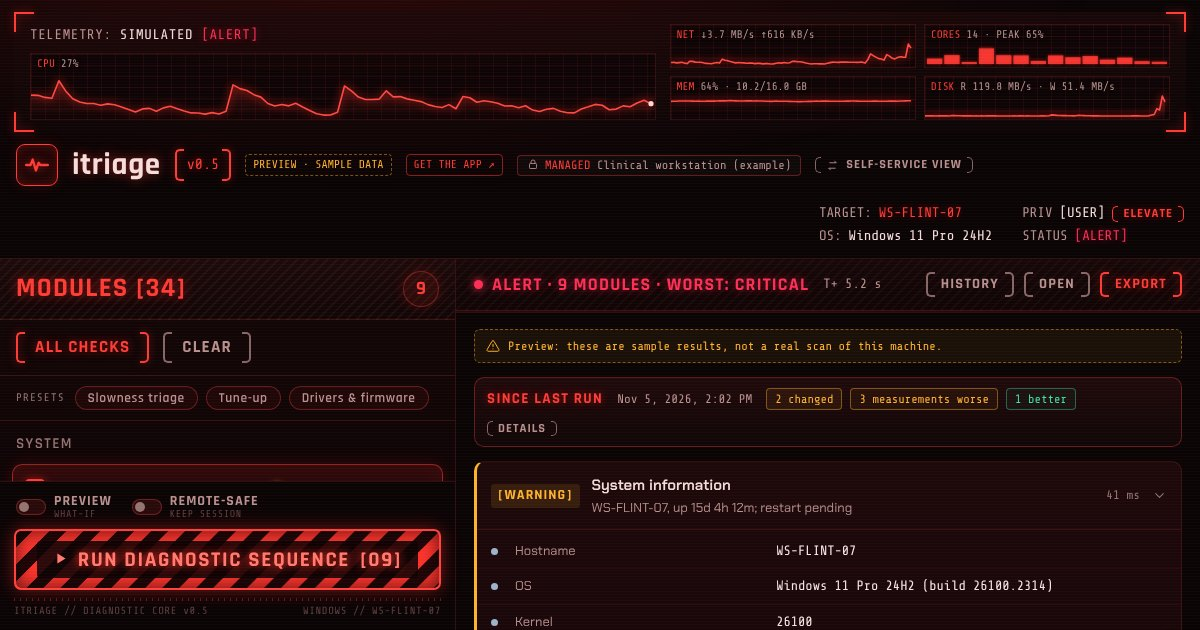
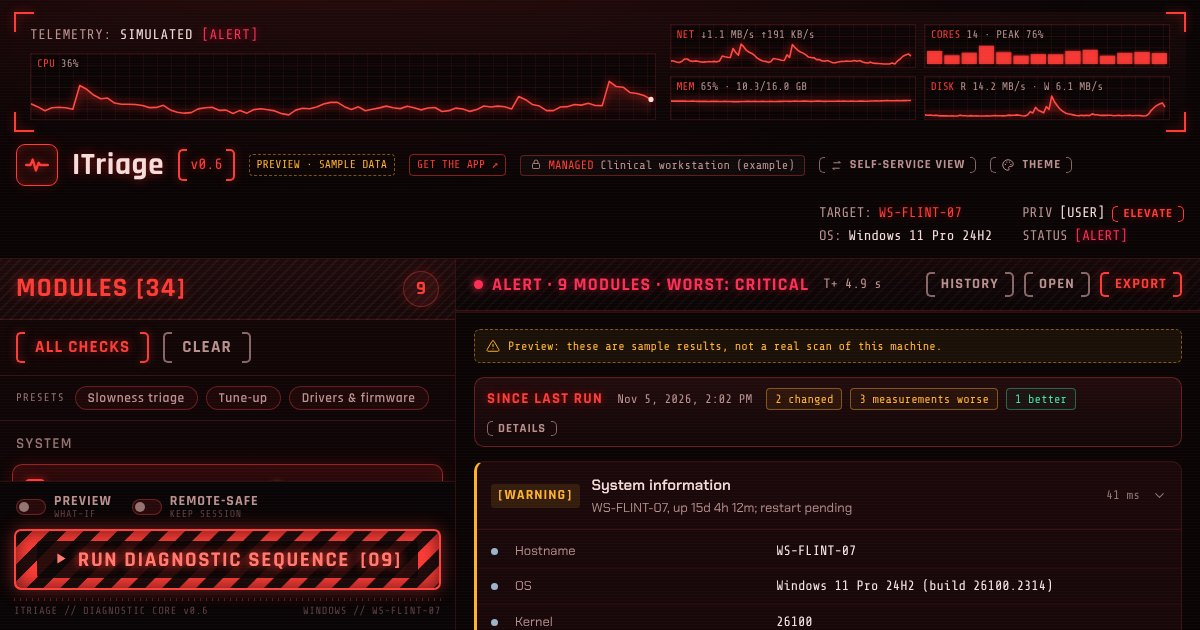
Spell the product name ITriage wherever people read it
- The app header, window title, page title, self-service footer, theme
  picker previews, reports (ticket text, transcript, Markdown, rich text),
  CLI help and run header, audit log messages and the engine's messages
  now say ITriage. So do the README, the release titles and the preview
  site's title; the link-card image is regenerated.
- The command, program file, folders, Event Log source, installer and
  package names stay lowercase `itriage`. Tauri builds the Linux package
  name by kebab-casing productName ("ITriage" would become a new
  "i-triage" package that can't upgrade "itriage") and derives the MSI
  upgrade code from it, so renaming it would break upgrades. The README
  says which is which.

Claude-Session: https://claude.ai/code/session_015zAL7gnsjDVgMzLAC5KVMW

diff --git a/src/main.js b/src/main.js
@@ -1,4 +1,4 @@
-/* itriage frontend logic — v0.6.
+/* ITriage frontend logic — v0.6.
  *
  * Two views over the same engine:
  *   • Technician: the HUD console (red by default, eight more themes in the
@@ -124,12 +124,12 @@
     mod("fix.tcp", "TCP autotuning & NIC power", "repair", "Sets TCP receive autotuning back to normal and turns off the adapters' sleep settings (DeviceSleepOnDisconnect, SelectiveSuspend).",
       CHANGE("Changes TCP and adapter power settings. The adapter settings apply the next time each adapter restarts.", Object.assign({}, DROP, WIN))),
     mod("fix.netstack", "Reset network stack", "repair", "Resets the Winsock catalog and the TCP/IP stack (IPv4 and IPv6). Applies after a restart. Refused when any address is static.",
-      CHANGE("Resets Winsock and TCP/IP to defaults. Static IP settings would be lost (itriage refuses if it finds any), and a restart is needed.", Object.assign({}, DROP, WIN))),
+      CHANGE("Resets Winsock and TCP/IP to defaults. Static IP settings would be lost (ITriage refuses if it finds any), and a restart is needed.", Object.assign({}, DROP, WIN))),
     mod("fix.adapters", "Restart adapters & renew DHCP", "repair", "Restarts every physical network adapter that's up, waits for each to come back, then renews DHCP (ipconfig /release, /renew).",
       CHANGE("Every network connection drops for up to a minute. A remote session will disconnect and should reconnect on its own.", DROP)),
     mod("fix.temp", "Clear temp files", "fixes", "Deletes temp files older than a day from every user profile and C:\\Windows\\Temp (only your own without admin). Skips files in use.",
       CHANGE("Permanently deletes temp files older than a day. Files in use are skipped.")),
-    mod("fix.recycle", "Empty Recycle Bin", "fixes", "Permanently deletes what's in the Recycle Bin (the Trash on Linux) for the account itriage runs as.",
+    mod("fix.recycle", "Empty Recycle Bin", "fixes", "Permanently deletes what's in the Recycle Bin (the Trash on Linux) for the account ITriage runs as.",
       CHANGE("Permanently deletes files the user may still expect to recover. Ask them first.")),
     mod("fix.repair", "Clean up & check system files", "fixes", "DISM component-store cleanup, then System File Checker (sfc /scannow). Takes 15–45 minutes; use when corruption is suspected or space is critical.",
       CHANGE("Runs DISM and SFC, which take 15–45 minutes and keep the disk busy. Don't restart until they finish.", Object.assign({}, ADMIN, WIN))),
@@ -239,7 +239,7 @@
 
   /* --------------------- sample data for the preview ---------------- */
   const ADMIN_REQUIRED =
-    'Administrator rights required. Use "Relaunch as admin" in the header (or right-click itriage → Run as administrator).';
+    'Administrator rights required. Use "Relaunch as admin" in the header (or right-click ITriage → Run as administrator).';
   const REMOTE_SAFE_REASON =
     "Remote-safe mode is on: this could drop the remote session or restart the PC. Switch remote-safe off to run it.";
   const MOCK_HOST = {
@@ -678,9 +678,9 @@
     <header class="brandbar" id="brandbar">
       <div class="brand">
         <span class="logo">${I.logo}</span>
-        <span class="name">itriage</span>
+        <span class="name">ITriage</span>
         <span class="brk">${VERSION}</span>
-        ${isTauri ? "" : '<span class="tag preview">PREVIEW · SAMPLE DATA</span><a class="tag getapp" href="https://github.com/jp101216/ITriage/releases/latest" target="_blank" rel="noopener" title="Download itriage for Windows or Linux">GET THE APP ↗</a>'}
+        ${isTauri ? "" : '<span class="tag preview">PREVIEW · SAMPLE DATA</span><a class="tag getapp" href="https://github.com/jp101216/ITriage/releases/latest" target="_blank" rel="noopener" title="Download ITriage for Windows or Linux">GET THE APP ↗</a>'}
         <button class="tag profile" id="profileTag" type="button" title="Site profile"><span id="profileIcon">${I.shield}</span><span id="profileName">PROFILE —</span></button>
         <span class="tag mode-tag pv" id="tagPreview" hidden title="Preview (what-if) is on: nothing will be changed">${I.eye}PREVIEW</span>
         <span class="tag mode-tag safe" id="tagSafe" hidden title="Remote-safe is on: nothing that could drop the session or restart the PC can run">${I.shield}REMOTE-SAFE</span>
@@ -733,7 +733,7 @@
                 <button type="button" role="menuitem" data-fmt="transcript">${I.copy}<span>Full transcript<small>Every module's log too · for an escalation</small></span></button>
                 <button type="button" role="menuitem" data-fmt="rich">${I.export}<span>Rich text<small>Formatted table · TeamDynamix, Outlook</small></span></button>
                 <button type="button" role="menuitem" data-fmt="md">${I.book}<span>Markdown<small>Teams, GitHub, wikis</small></span></button>
-                <button type="button" role="menuitem" data-fmt="json">${I.download}<span>JSON report<small>Re-open in itriage, or attach to the ticket</small></span></button>
+                <button type="button" role="menuitem" data-fmt="json">${I.download}<span>JSON report<small>Re-open in ITriage, or attach to the ticket</small></span></button>
               </div>
             </div>
           </div>
@@ -1197,7 +1197,7 @@
           <dt>Opens in</dt><dd>${pol.start_in === "self-service" ? "self-service view" : "technician view"}${pol.technician_view === false ? " · technician view turned off" : ""}</dd>
           ${profileSkin() ? `<dt>Theme</dt><dd>${esc(profileSkin().name)} by default</dd>` : ""}
         </dl>
-        <p>A machine-wide profile at <code>${esc(where)}</code> wins over a personal one, and a broken one locks itriage to read-only.</p>`,
+        <p>A machine-wide profile at <code>${esc(where)}</code> wins over a personal one, and a broken one locks ITriage to read-only.</p>`,
       actions: [{ label: "Close", hot: true, value: true }],
     });
   }
@@ -1711,7 +1711,7 @@
     let notice = "";
     if (action.requires_admin && host && !host.elevated) {
       notice = host.platform === "windows"
-        ? `<div class="warnbox">${I.shield}<div><p><b>Needs administrator rights.</b> It will stop with an error until itriage runs elevated.</p>
+        ? `<div class="warnbox">${I.shield}<div><p><b>Needs administrator rights.</b> It will stop with an error until ITriage runs elevated.</p>
              ${host.can_relaunch_elevated ? '<button class="bk-btn xs" data-x="relaunch" type="button">Relaunch as admin</button>' : ""}</div></div>`
         : `<div class="notebox">${I.shield}<p>Needs root: you'll be asked for your password.</p></div>`;
     }
@@ -2064,7 +2064,7 @@
     const file = fileInput.files && fileInput.files[0];
     fileInput.value = "";
     if (!file) return;
-    if (file.size > 20 * 1024 * 1024) { toast("That file is too big to be an itriage report."); return; }
+    if (file.size > 20 * 1024 * 1024) { toast("That file is too big to be an ITriage report."); return; }
     try {
       const text = await file.text();
       const r = await api.importReport(text);
@@ -2161,7 +2161,7 @@
   }
 
   function plainText(report, diff, withLogs) {
-    const lines = [`itriage report — ${fmtUtc(report.generated)}`, hostLine(report)];
+    const lines = [`ITriage report — ${fmtUtc(report.generated)}`, hostLine(report)];
     if (report.cancelled) lines.push("Run was cancelled before every module finished.");
     if (report.results.some((r) => r.preview)) lines.push("PREVIEW: modules that change the machine only said what they would do.");
     if (report.results.some((r) => r.restart_required && !r.preview)) lines.push("A restart is needed to finish the changes.");
@@ -2208,7 +2208,7 @@
   function markdown(report, diff) {
     const cell = (s) => String(s).replace(/\|/g, "\\|").replace(/\s*\n\s*/g, " ");
     const tag = { ok: "OK", info: "INFO", warning: "WARN", critical: "CRIT" };
-    const out = [`## itriage report · ${report.host ? report.host.hostname : ""}`, "", `${fmtUtc(report.generated)} · ${hostLine(report)}`];
+    const out = [`## ITriage report · ${report.host ? report.host.hostname : ""}`, "", `${fmtUtc(report.generated)} · ${hostLine(report)}`];
     if (report.results.some((r) => r.preview)) out.push("", "> **Preview:** modules that change the machine only said what they would do.");
     if (diff) out.push("", `**${diffLine(diff)}**`);
     const key = keyFindings(report);
@@ -2260,7 +2260,7 @@
       });
     });
     return `<div style="font-family:Segoe UI,Arial,sans-serif;font-size:13px;color:#1f2328">
-      <p style="margin:0 0 6px"><b>itriage report</b> · ${esc(fmtUtc(report.generated))}<br>${esc(hostLine(report))}</p>
+      <p style="margin:0 0 6px"><b>ITriage report</b> · ${esc(fmtUtc(report.generated))}<br>${esc(hostLine(report))}</p>
       ${diff ? `<p style="margin:0 0 8px"><b>${esc(diffLine(diff))}</b></p>` : ""}
       ${keyHtml(report, color)}
       <table style="border-collapse:collapse;font-size:13px">${rows}</table></div>`;
@@ -2343,7 +2343,7 @@
         <p class="ss-hint">Takes about a minute. Nothing on your computer is changed.</p>
         <div class="ss-progress" id="ssProg" hidden><div class="bar"><i id="ssBar"></i></div><p id="ssStep">Starting…</p></div>
         <div class="ss-results" id="ssResults"></div>
-        <p class="ss-foot">itriage ${VERSION}${isTauri ? "" : " · preview with sample results"}</p>
+        <p class="ss-foot">ITriage ${VERSION}${isTauri ? "" : " · preview with sample results"}</p>
       </div>`;
     const tech = el("ssTech");
     if (tech) tech.onclick = () => setMode("tech");
@@ -2564,7 +2564,7 @@
     const card = (s) => `
       <button class="skin" type="button" data-id="${s.id}" aria-pressed="${s.id === chosen}">
         <span class="skin-thumb" data-skin="${s.id}" aria-hidden="true">
-          <span class="st-top"><span class="st-logo">${I.logo}</span><span class="st-name">itriage</span><span class="st-ver">${VERSION}</span></span>
+          <span class="st-top"><span class="st-logo">${I.logo}</span><span class="st-name">ITriage</span><span class="st-ver">${VERSION}</span></span>
           <span class="st-mod on"><span class="st-box"></span><span class="st-lines"><i></i><i></i></span></span>
           <span class="st-mod"><span class="st-box"></span><span class="st-lines"><i></i><i></i></span></span>
           <span class="st-run"><b>RUN</b></span>
@@ -2617,7 +2617,7 @@
       const names = needAdmin.map((m) => `<b>${esc(m.title)}</b>`).join(" and ");
       notice = host.platform === "windows"
         ? `<div class="warnbox">${I.shield}<div><p><b>Not running as administrator.</b> ${names}
-             will stop with an error until itriage runs elevated.</p>
+             will stop with an error until ITriage runs elevated.</p>
              ${host.can_relaunch_elevated ? '<button class="bk-btn xs" data-x="relaunch" type="button">Relaunch as admin</button>' : ""}
            </div></div>`
         : `<div class="notebox">${I.shield}<p>${esc(host.elevation_note)} Applies to ${names}.</p></div>`;
@@ -3014,8 +3014,8 @@
       },
       importReport: async (text) => {
         let r;
-        try { r = JSON.parse(text); } catch (e) { throw "Not an itriage report: " + e.message; }
-        if (!r || !Array.isArray(r.results) || !r.host || !r.generated) throw "Not an itriage report: missing host, generated or results.";
+        try { r = JSON.parse(text); } catch (e) { throw "Not an ITriage report: " + e.message; }
+        if (!r || !Array.isArray(r.results) || !r.host || !r.generated) throw "Not an ITriage report: missing host, generated or results.";
         return { report: r, diff: null, saved: null };
       },
       compareWithPrevious: async (report) =>

diff --git a/src/styles.css b/src/styles.css
@@ -1,5 +1,5 @@
 /* ------------------------------------------------------------------
-   itriage — HUD console (nine themes; red is the default)
+   ITriage — HUD console (nine themes; red is the default)
    Layout: live telemetry strip on top (corner-bracketed scopes), a brand
    bar with live host stats, then the two-pane console: module rail on the
    left, streaming report on the right. Stacks to one column on narrow

diff --git a/src/index.html b/src/index.html
@@ -3,7 +3,7 @@
   <head>
     <meta charset="UTF-8" />
     <meta name="viewport" content="width=device-width, initial-scale=1.0" />
-    <title>itriage</title>
+    <title>ITriage</title>
     <!-- Everything is local: the app's CSP allows no remote content. -->
     <link rel="stylesheet" href="fonts/fonts.css" />
     <link rel="stylesheet" href="styles.css" />

diff --git a/crates/itriage-core/src/audit.rs b/crates/itriage-core/src/audit.rs
@@ -59,7 +59,7 @@ pub fn run_finished(results: &[ModuleResult], cancelled: bool) {
         .unwrap_or(Severity::Ok);
     let ids: Vec<&str> = results.iter().map(|r| r.module_id.as_str()).collect();
     let message = format!(
-        "itriage run {}: {} module(s), worst result {:?}{}",
+        "ITriage run {}: {} module(s), worst result {:?}{}",
         if cancelled { "cancelled" } else { "finished" },
         results.len(),
         worst,
@@ -72,8 +72,8 @@ pub fn run_finished(results: &[ModuleResult], cancelled: bool) {
 pub fn module_ran(result: &ModuleResult) {
     let ok = result.error.is_none();
     let message = match &result.error {
-        None => format!("itriage module {} ran: {}", result.module_id, result.summary),
-        Some(e) => format!("itriage module {} failed: {e}", result.module_id),
+        None => format!("ITriage module {} ran: {}", result.module_id, result.summary),
+        Some(e) => format!("ITriage module {} failed: {e}", result.module_id),
     };
     record("module", event_id::MODULE, ok, &message, json!({ "module": result.module_id }));
 }
@@ -85,8 +85,8 @@ pub fn fix_ran(id: &str, target: Option<&str>, outcome: &Result<String, String>)
         None => id.to_string(),
     };
     let (ok, message) = match outcome {
-        Ok(m) => (true, format!("itriage fix {what} succeeded: {m}")),
-        Err(e) => (false, format!("itriage fix {what} failed: {e}")),
+        Ok(m) => (true, format!("ITriage fix {what} succeeded: {m}")),
+        Err(e) => (false, format!("ITriage fix {what} failed: {e}")),
     };
     let event = if ok { event_id::FIX_OK } else { event_id::FIX_FAILED };
     record("fix", event, ok, &message, json!({ "fix": id, "target": target }));

diff --git a/crates/itriage-core/src/update/oem.rs b/crates/itriage-core/src/update/oem.rs
@@ -49,7 +49,7 @@ impl OemTool {
             Some((_, severity, text)) => (*severity, (*text).to_string()),
             None => (
                 Severity::Warning,
-                "finished with an exit code this version of itriage doesn't recognise; check the tool's log".into(),
+                "finished with an exit code this version of ITriage doesn't recognise; check the tool's log".into(),
             ),
         }
     }
@@ -179,7 +179,7 @@ static ROUTES: [Route; 10] = [
         winget_id: Some("Lenovo.SystemUpdate"),
         search_name: "Lenovo System Update",
         via: Via::Runner(&LENOVO),
-        note: Some("itriage runs Lenovo Thin Installer unattended when it's installed; Lenovo System Update has to be opened."),
+        note: Some("ITriage runs Lenovo Thin Installer unattended when it's installed; Lenovo System Update has to be opened."),
         matches: |m| m.contains("lenovo"),
     },
     Route {
@@ -276,7 +276,7 @@ pub fn tool_name(winget_id: &str) -> Option<&'static str> {
 /// Install a routed OEM tool with winget, the way Invoke-UpdateSystem does.
 #[cfg(windows)]
 pub fn install_tool(winget_id: &str, ctx: &crate::module::RunContext) -> Result<String, String> {
-    let name = tool_name(winget_id).ok_or_else(|| format!("`{winget_id}` isn't one of the OEM tools itriage installs."))?;
+    let name = tool_name(winget_id).ok_or_else(|| format!("`{winget_id}` isn't one of the OEM tools ITriage installs."))?;
     let route = ROUTES.iter().find(|r| r.winget_id == Some(winget_id)).expect("tool_name found it");
     if !crate::update::winget::available() {
         return Err("winget isn't available; install App Installer from the Microsoft Store first.".into());

diff --git a/crates/itriage-core/src/report.rs b/crates/itriage-core/src/report.rs
@@ -175,7 +175,7 @@ pub fn load(path: &Path) -> Result<Report, String> {
 
 /// Parse report JSON (from history, an export, or a remote run).
 pub fn parse(text: &str) -> Result<Report, String> {
-    serde_json::from_str(text).map_err(|e| format!("Not an itriage report: {e}"))
+    serde_json::from_str(text).map_err(|e| format!("Not an ITriage report: {e}"))
 }
 
 /// The most recent saved run of this host from before `generated` that ran
@@ -517,7 +517,7 @@ pub fn metric_text(value: f64, unit: &str) -> String {
 pub fn render_text(report: &Report, diff: Option<&ReportDiff>, logs: bool) -> String {
     let h = &report.host;
     let mut out = vec![
-        format!("itriage report — {}", utc(&report.generated)),
+        format!("ITriage report — {}", utc(&report.generated)),
         [
             Some(h.hostname.clone()),
             Some(h.os.clone()),

diff --git a/crates/itriage-core/src/fixes/temp.rs b/crates/itriage-core/src/fixes/temp.rs
@@ -165,7 +165,7 @@ fn os_targets() -> (Vec<PathBuf>, Option<String>) {
         // As root, "our" files in a shared /tmp include system services'.
         return (
             Vec::new(),
-            Some("skipped as root: the shared temp folder holds system services' files. Run itriage as the user whose temp files should go".into()),
+            Some("skipped as root: the shared temp folder holds system services' files. Run ITriage as the user whose temp files should go".into()),
         );
     }
     (vec![std::env::temp_dir()], Some("other users' files and system folders are never touched".into()))

diff --git a/crates/itriage-core/src/cli.rs b/crates/itriage-core/src/cli.rs
@@ -15,7 +15,7 @@ use crate::report::{self, Report};
 use std::path::PathBuf;
 
 pub const USAGE: &str = "\
-itriage: IT triage and updates
+ITriage: IT triage and updates
 
 USAGE
   itriage [OPTIONS] [MODULE...]
@@ -241,7 +241,7 @@ pub fn main(argv: Vec<String>) -> i32 {
     let status = &loaded.status;
     if !args.quiet {
         eprintln!(
-            "itriage · {} · {} · {} · profile: {} ({}){}{}",
+            "ITriage · {} · {} · {} · profile: {} ({}){}{}",
             host.hostname,
             host.os,
             if host.elevated { "elevated" } else { "standard user" },

diff --git a/src-tauri/src/main.rs b/src-tauri/src/main.rs
@@ -1,7 +1,7 @@
 // Hide the console window on Windows release builds (keep it in debug).
 #![cfg_attr(not(debug_assertions), windows_subsystem = "windows")]
 
-//! Tauri desktop shell for itriage. Deliberately thin: all the real work
+//! Tauri desktop shell for ITriage. Deliberately thin: all the real work
 //! lives in `itriage-core`.
 //!
 //! Commands:
@@ -384,5 +384,5 @@ fn main() {
             open_history_folder
         ])
         .run(tauri::generate_context!())
-        .expect("error while running itriage");
+        .expect("error while running ITriage");
 }

diff --git a/crates/itriage-core/src/actions.rs b/crates/itriage-core/src/actions.rs
@@ -158,7 +158,7 @@ fn validate_target(id: &str, target: &str) -> Result<(), String> {
         Ok(())
     } else {
         Err(match id {
-            "install-oem-tool" => format!("`{target}` isn't one of the OEM tools itriage installs."),
+            "install-oem-tool" => format!("`{target}` isn't one of the OEM tools ITriage installs."),
             "install-update" => format!("`{target}` isn't a Windows Update identity."),
             _ => format!("`{target}` isn't a valid service name."),
         })

diff --git a/crates/itriage-core/src/fixes/maintenance.rs b/crates/itriage-core/src/fixes/maintenance.rs
@@ -39,7 +39,7 @@ impl TriageModule for EmptyRecycleBin {
             "fix.recycle",
             "Empty Recycle Bin",
             Category::Fixes,
-            "Permanently deletes what's in the Recycle Bin (the Trash on Linux) for the account itriage runs as.",
+            "Permanently deletes what's in the Recycle Bin (the Trash on Linux) for the account ITriage runs as.",
         )
         .mutating()
         .warning("Permanently deletes files the user may still expect to recover. Ask them first.")

diff --git a/crates/itriage-core/src/fixes/netrepair.rs b/crates/itriage-core/src/fixes/netrepair.rs
@@ -187,7 +187,7 @@ impl TriageModule for ResetStack {
         .mutating()
         .admin()
         .disruptive()
-        .warning("Resets Winsock and TCP/IP to defaults. Static IP settings would be lost (itriage refuses if it finds any), and a restart is needed.")
+        .warning("Resets Winsock and TCP/IP to defaults. Static IP settings would be lost (ITriage refuses if it finds any), and a restart is needed.")
     }
 
     fn preview(&self, _ctx: &RunContext) -> Result<Output, String> {
